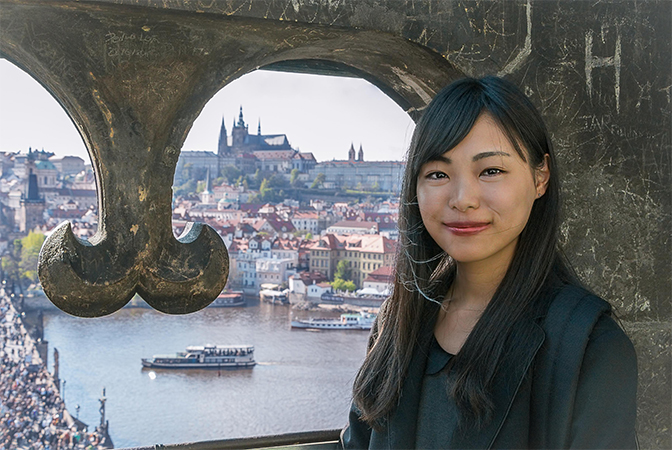
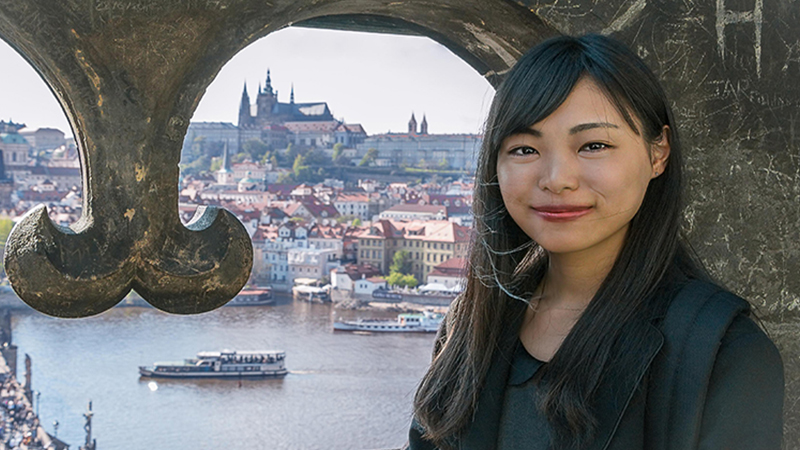
updated pictures

diff --git a/index.html b/index.html
@@ -118,7 +118,7 @@
   </div>
   <div class="col-md-6 col-lg-4">
 	  <div class="card mb-3">
-  <img class="card-img-top" src="images/filler1.jpg" alt="Speaker Name">
+  <img class="card-img-top" src="images/speaker2.jpg" alt="Speaker Name">
   <div class="card-body">
     <h4 class="card-title">Speaker Name</h4>
     <p class="card-text">Lorem Ipsum is simply dummy text of the printing and typesetting industry. Lorem Ipsum has been the industry's standard dummy text ever since the 1500s, when an unknown printer.</p>
@@ -127,7 +127,7 @@
   </div>
   <div class="col-md-6 col-lg-4">
 	  <div class="card mb-3">
-  <img class="card-img-top" src="https://via.placeholder.com/800x450.png" alt="Speaker Name">
+  <img class="card-img-top" src="images/speaker3.jpg" alt="Speaker Name">
   <div class="card-body">
     <h4 class="card-title">Speaker Name</h4>
     <p class="card-text">Lorem Ipsum is simply dummy text of the printing and typesetting industry. Lorem Ipsum has been the industry's standard dummy text ever since the 1500s, when an unknown printer.</p>
@@ -136,7 +136,7 @@
   </div>
   <div class="col-md-6 col-lg-4">
 	  <div class="card mb-3">
-  <img class="card-img-top" src="https://via.placeholder.com/800x450.png" alt="Speaker Name" width="800px" height="450px">
+  <img class="card-img-top" src="images/speaker4.jpg" alt="Speaker Name">
   <div class="card-body">
     <h4 class="card-title">Speaker Name</h4>
     <p class="card-text">Lorem Ipsum is simply dummy text of the printing and typesetting industry. Lorem Ipsum has been the industry's standard dummy text ever since the 1500s, when an unknown printer.</p>
@@ -145,7 +145,7 @@
   </div>
   <div class="col-md-6 col-lg-4">
 	  <div class="card mb-3">
-  <img class="card-img-top" src="https://via.placeholder.com/800x450.png" alt="Speaker Name">
+  <img class="card-img-top" src="images/speaker5.JPG" alt="Speaker Name">
   <div class="card-body">
     <h4 class="card-title">Speaker Name</h4>
     <p class="card-text">Lorem Ipsum is simply dummy text of the printing and typesetting industry. Lorem Ipsum has been the industry's standard dummy text ever since the 1500s, when an unknown printer.</p>
@@ -154,7 +154,7 @@
   </div>
   <div class="col-md-6 col-lg-4">
 	  <div class="card mb-3">
-  <img class="card-img-top" src="https://via.placeholder.com/800x450.png" alt="Speaker Name">
+  <img class="card-img-top" src="images/speaker6.jpg" alt="Speaker Name">
   <div class="card-body">
     <h4 class="card-title">Speaker Name</h4>
     <p class="card-text">Lorem Ipsum is simply dummy text of the printing and typesetting industry. Lorem Ipsum has been the industry's standard dummy text ever since the 1500s, when an unknown printer.</p>
